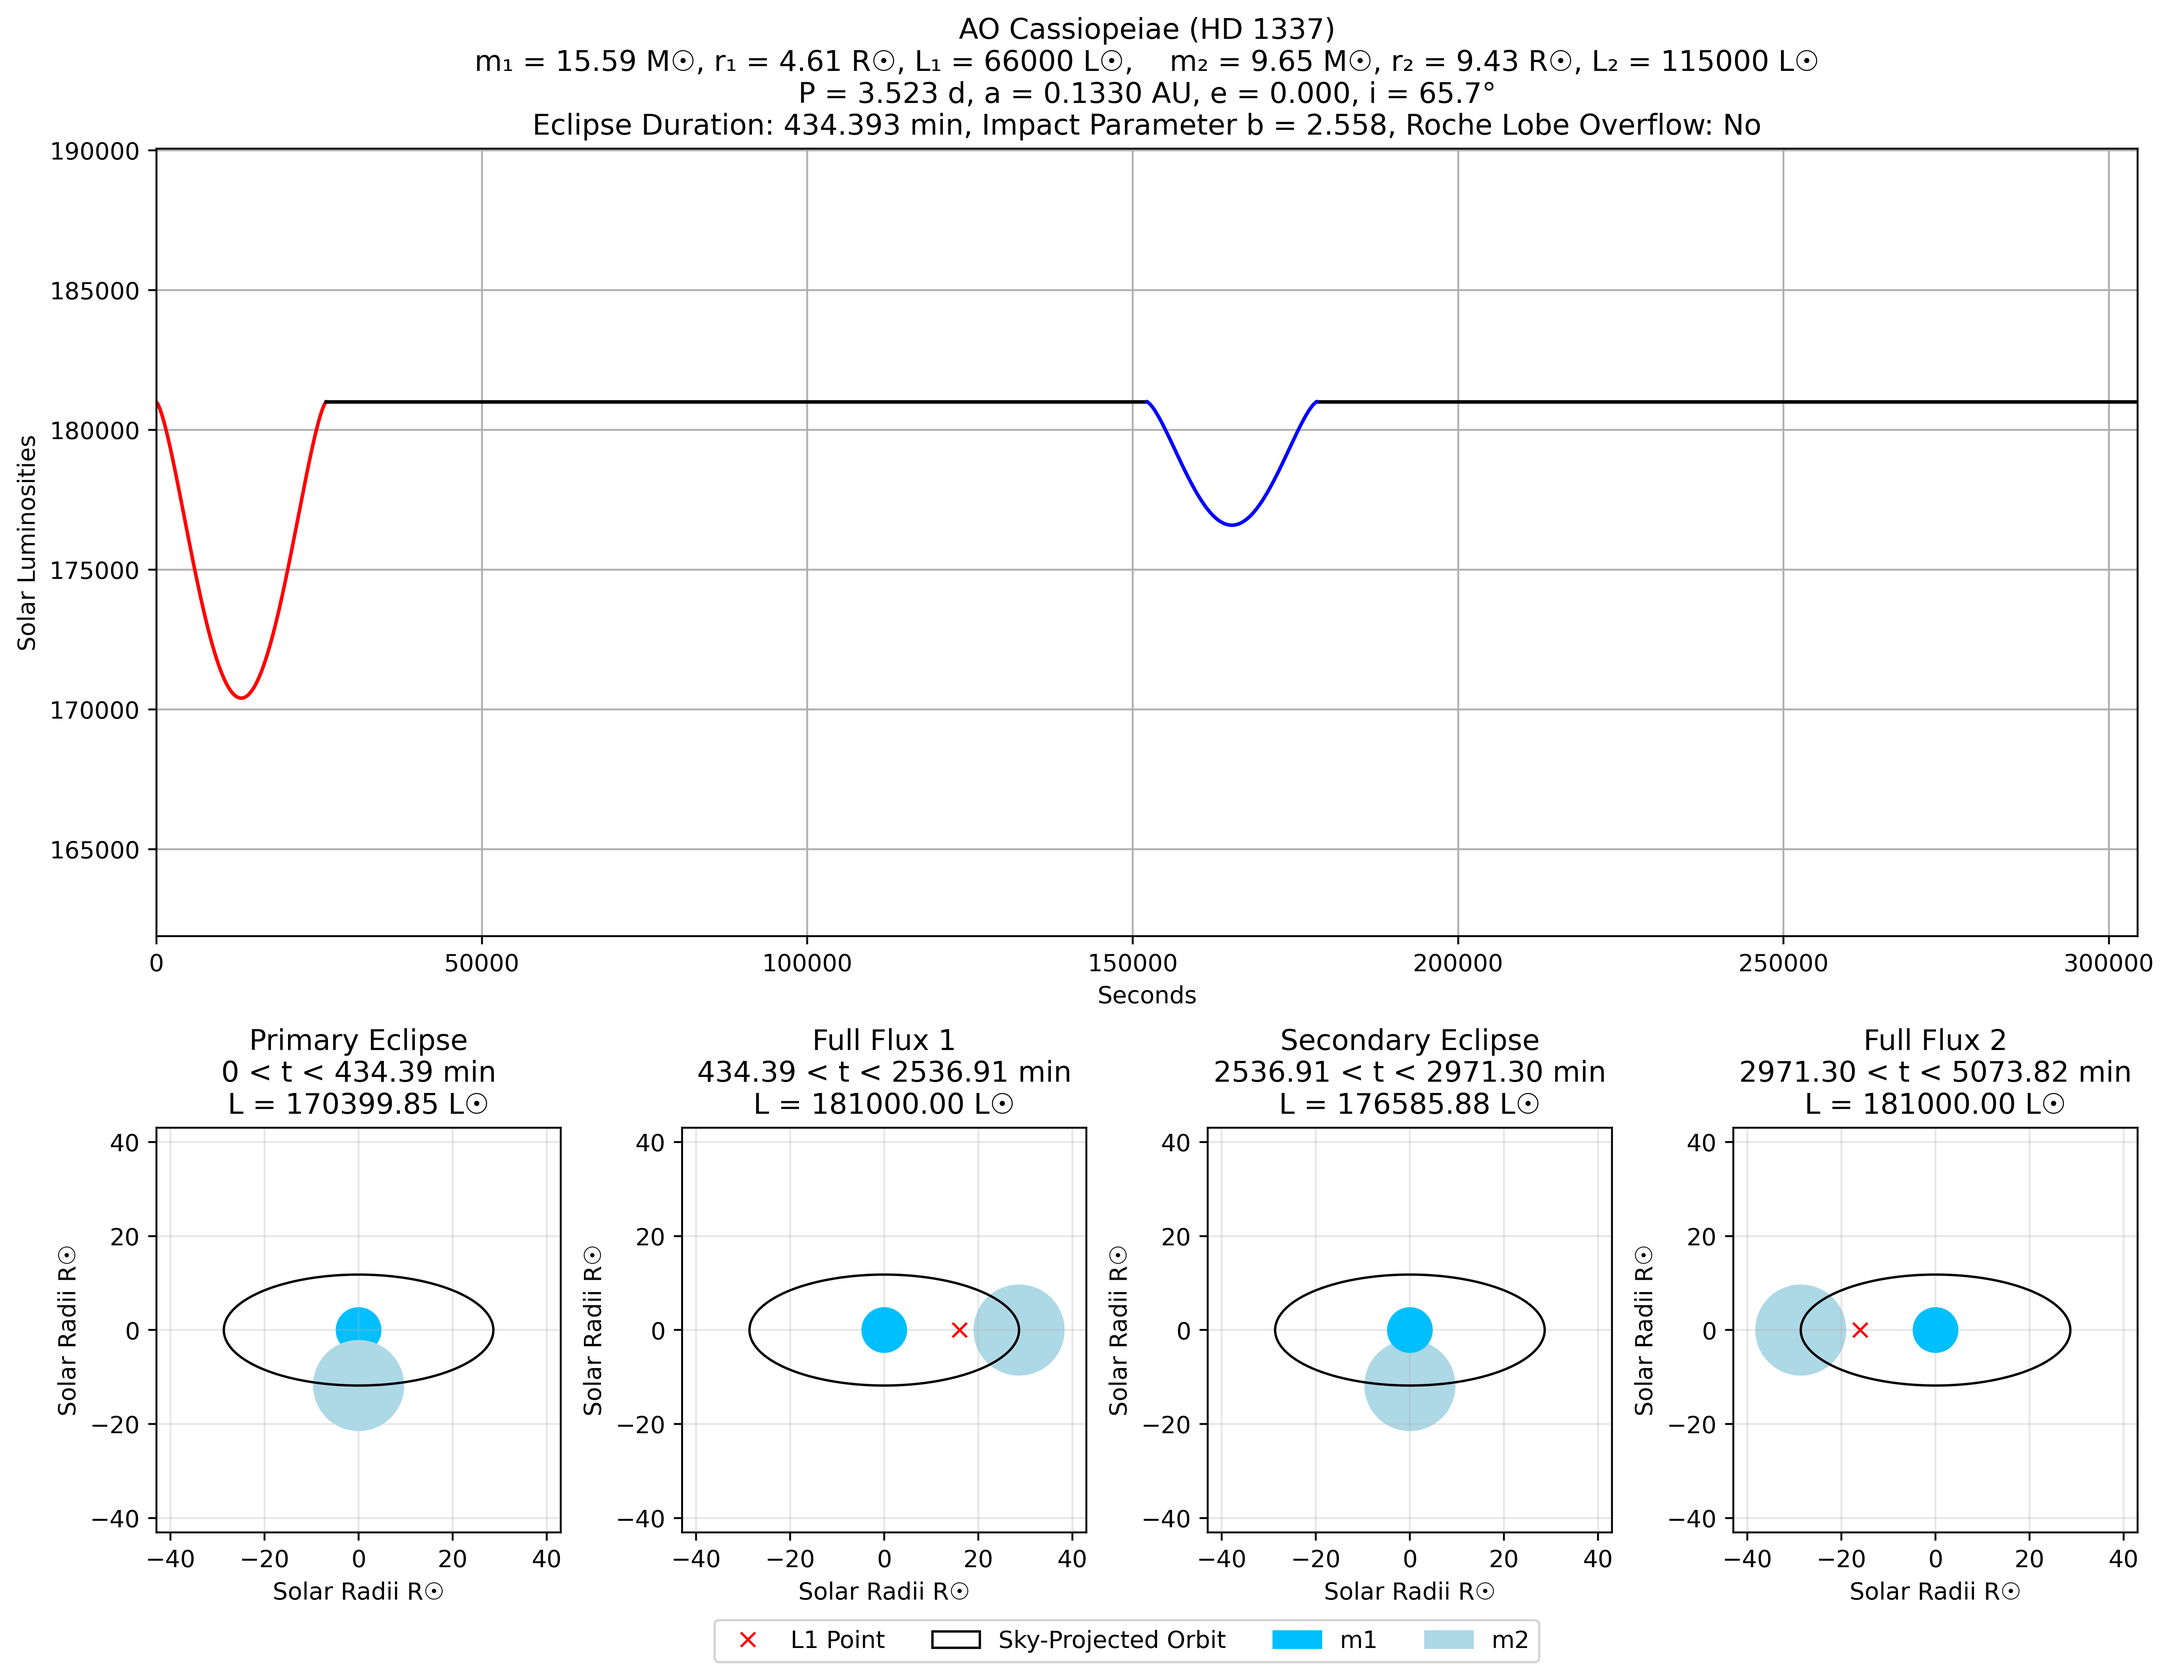
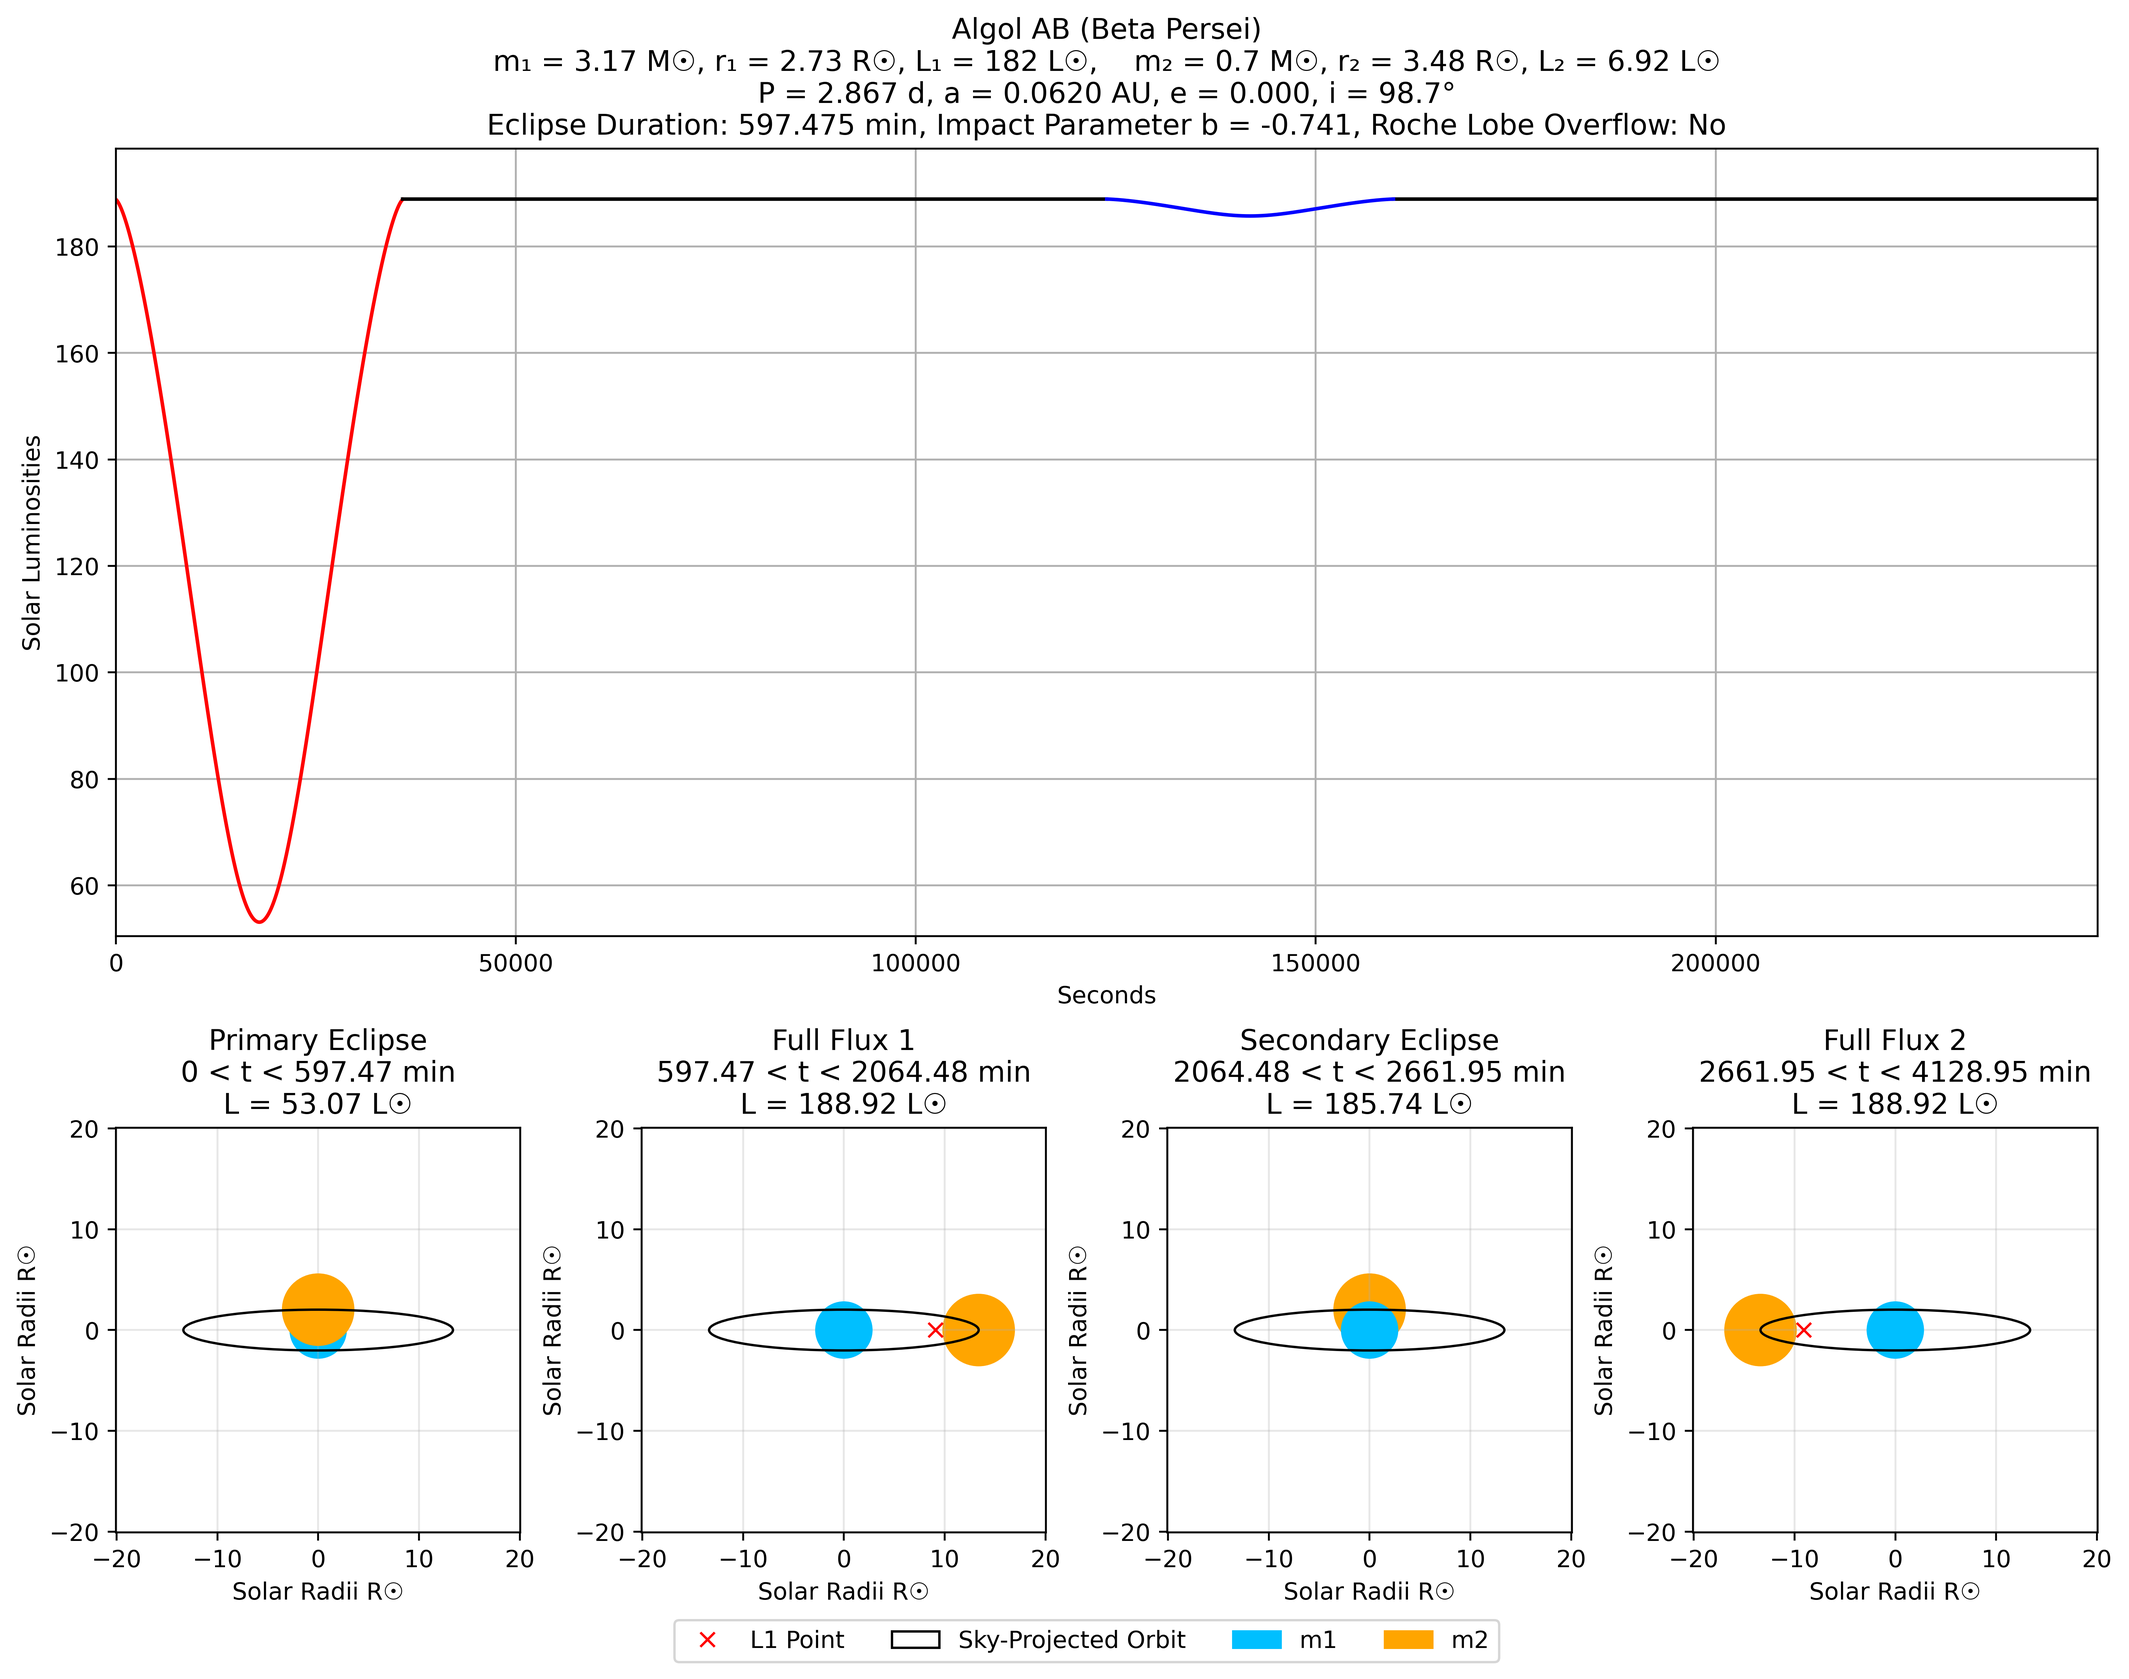
changed example to algol

diff --git a/LC4_5.py b/LC4_5.py
@@ -22,21 +22,21 @@ R_Sol = 6.96e8  # Solar Radii
 yr = 365 * 24 * 60 * 60  # Years in seconds
 
 # INPUT PARAMETERS: Primary Star
-target = "AO Cassiopeiae (HD 1337)"  # Name of system
-m1 = 15.59  # Solar Masses
-r1 = 4.61  # Solar Radii
-L1 = 66000 # Solar Luminosity
+target = "Algol AB (Beta Persei)"  # Name of system
+m1 = 3.17  # Solar Masses
+r1 = 2.73  # Solar Radii
+L1 = 182 # Solar Luminosity
 primary_color = 'deepskyblue'  # Color for primary star in graph
 
 # INPUT PARAMETERS: Secondary Star
-m2 = 9.65  # Solar Masses
-r2 = 9.43  # r2 < r1 Solar Radii
-L2 = 115000  # Solar Luminosity
-secondary_color = 'lightblue'  # Color for secondary star in graph
+m2 = 0.7  # Solar Masses
+r2 = 3.48  # r2 < r1 Solar Radii
+L2 = 6.92  # Solar Luminosity
+secondary_color = 'orange'  # Color for secondary star in graph
 
 # INPUT PARAMETERS: Orbital Parameters
-P = 3.523488  # Orbital Period in Days
-i = 65.7 # Inclination Angle in Deg
+P = 2.867328  # Orbital Period in Days
+i = 98.7 # Inclination Angle in Deg
 r_L1_color = "red"  # Color for L1 point in graph
 
 
